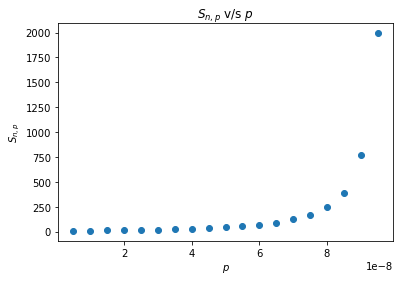
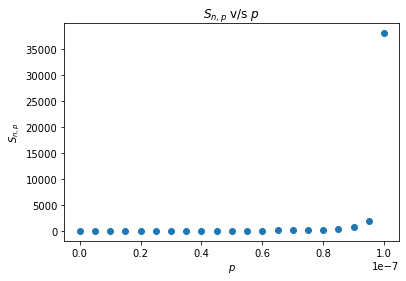
final-commit

diff --git a/Programming-Assignment-2/experiment.py b/Programming-Assignment-2/experiment.py
@@ -83,7 +83,7 @@ if __name__ == '__main__':
     queue = mp_manager.Queue()
 
     n = 1E7
-    num_points = 20
+    num_points = 40
     num_repeats = 20
     num_parallel = 20
 
